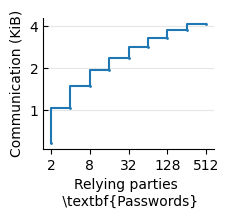
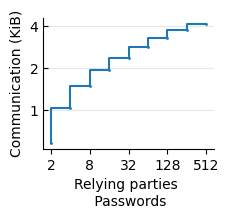
fix

Changed region(s): [[0.2751, 0.8807, 0.8559, 0.9633]]

diff --git a/scripts/plot_pw_comm.py b/scripts/plot_pw_comm.py
@@ -23,7 +23,7 @@ ax = fig.add_subplot(111)
 ax.step(lens, comm, marker="o",markersize=1)
 ax.set_xscale("log")
 ax.set_yscale("log")
-ax.set_xlabel("Relying parties \n \\textbf{Passwords}")
+ax.set_xlabel("Relying parties \n Passwords")
 ax.set_ylabel("Communication (KiB)")
 ax.set_xticks([2,8,32,128,512])
 ax.set_xticklabels(["2","8","32","128","512"])

diff --git a/README.md b/README.md
@@ -99,7 +99,7 @@ Generate the right plot in figure 4 by running:
 ```
 python3 plot_pw_comm.py
 ```
-This script will output a plot in `larch/scripts/out_plots/plot_comm.png`. This plot is purely analytical and not based on any performance measurements.
+This script will output a plot in `larch/scripts/out_plots/plot_pw_comm.png`. This plot is purely analytical and not based on any performance measurements.
 
 <img src="https://github.com/edauterman/larch/blob/main/scripts/ref_plots/plot_pw_comm.png" width="400">
 
